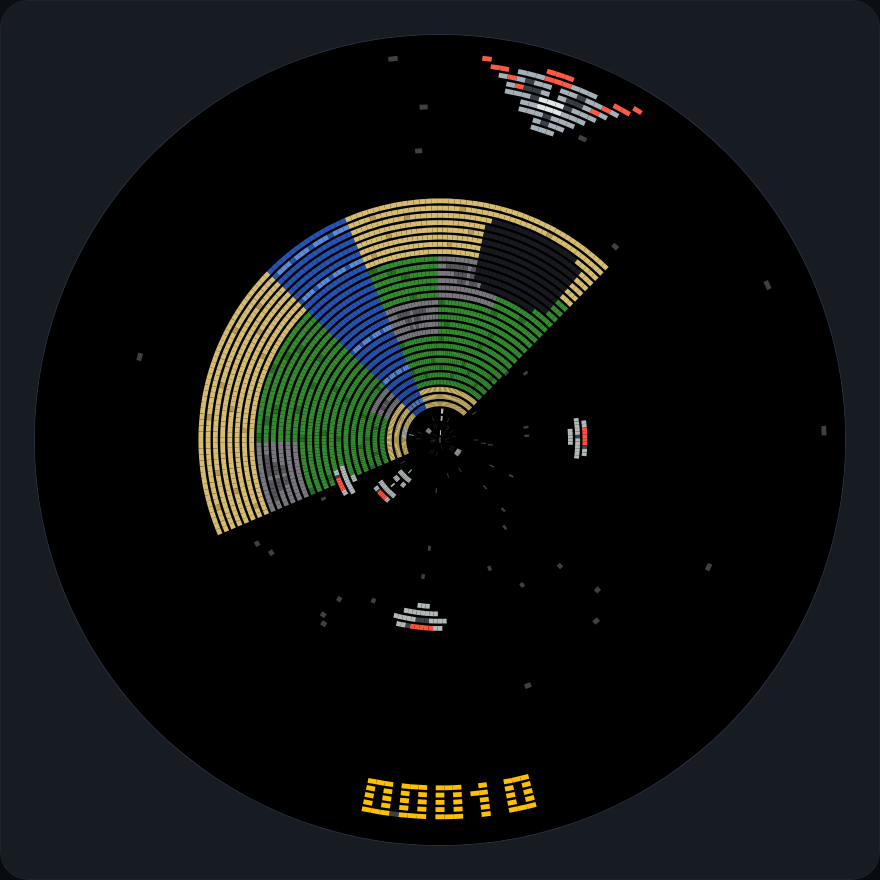
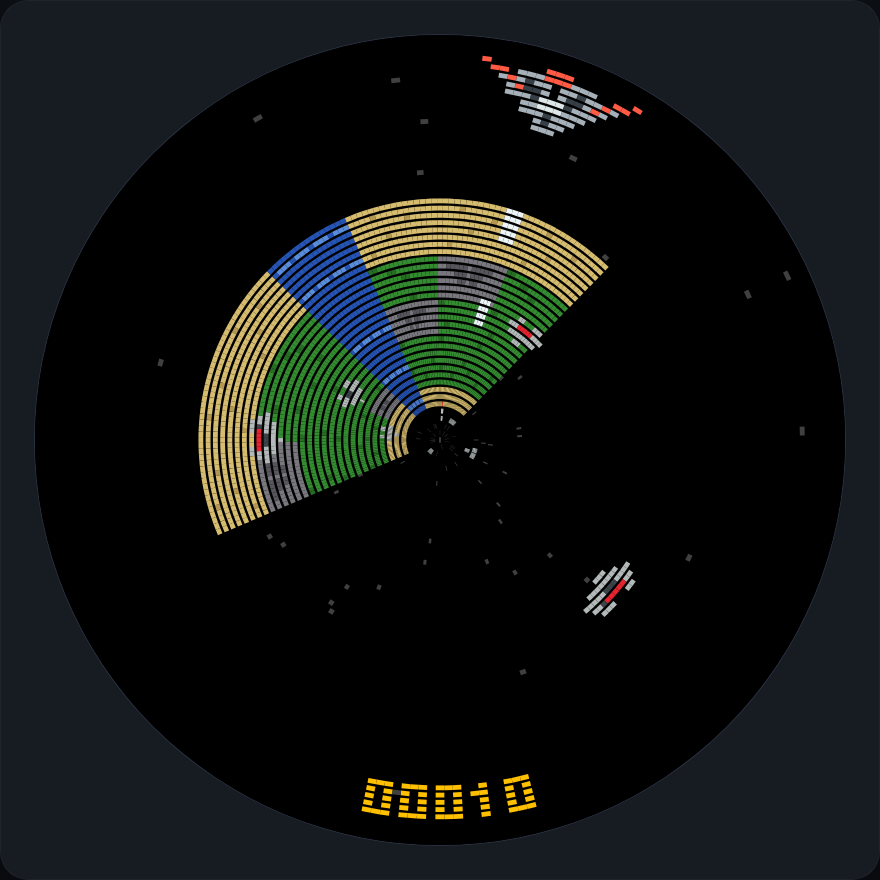
Docs: steel8x8 font in the tutorial, retake the game screenshots
Follows the tutorial game's font change: chapter text, the art list, the budget
table and the glossary name steel8x8.png, the harness takes the font from
vasura_espacial, and the title, game-over and gameplay screenshots are retaken.

Claude-Session: https://claude.ai/code/session_01Am6eVYV27DcbeE9tF3fxdW

diff --git a/docs/vs2/tutorial/tilemaps-and-text.md b/docs/vs2/tutorial/tilemaps-and-text.md
@@ -79,7 +79,7 @@ def build(self):
     hud = self.layer("hud", projection=vs2.HUD)
     self.score  = hud.label("numerals.png", columns=5, x=246, y=1)   # bottom of the disc: upright
     self.status = hud.label("tinyfont.png", columns=21, rows=3, x=-42, y=0)
-    self.title  = hud.label("rainbow437.png", columns=18, text="READY")
+    self.title  = hud.label("steel8x8.png", columns=18, text="READY")
 ```
 
 One-line labels get a `text` property; multi-line ones use
@@ -151,7 +151,7 @@ Two labels: one at the top with `flip_x` and `flip_y`, one at the bottom with no
 ### Glyphs
 
 A label shows a character by picking the {term}`glyph` frame for it. By default
-that is {term}`CP437`, where `frame = ord(ch)` — what `rainbow437.png` and the
+that is {term}`CP437`, where `frame = ord(ch)` — what `steel8x8.png` and the
 other full font strips use. A strip with only a few characters, like a row of
 digits, declares its own mapping in `__images__.yaml`, next to the strip:
 

diff --git a/docs/vs2/tutorial/scenes-and-input.md b/docs/vs2/tutorial/scenes-and-input.md
@@ -158,15 +158,15 @@ def update(self):
 ```
 
 **A title and a game-over screen.** Both are small scenes. The text is a
-{term}`label` using `rainbow437.png`, a full CP437 font, so it can write any
+{term}`label` using `steel8x8.png`, a full CP437 font, so it can write any
 letter. The helper centres a label on the bottom of the disc, where text reads
 upright, so it needs no flips:
 
 ```python
 def centred_label(layer, text, y):
     """A label for ``text``, centred on the bottom of the disc, where it reads
-    upright. rainbow437.png is a full CP437 font, 9 columns per character."""
-    label = layer.label("rainbow437.png", columns=len(text), x=0, y=y, text=text)
+    upright. steel8x8.png is a full CP437 font, 8 columns per character."""
+    label = layer.label("steel8x8.png", columns=len(text), x=0, y=y, text=text)
     label.x = -(len(text) * label.image.width) // 2
     return label
 

diff --git a/docs/vs2/tutorial/budgets.md b/docs/vs2/tutorial/budgets.md
@@ -114,7 +114,7 @@ Add up Tunnel Shooter's budget. The numbers are in `vs2.limits`:
 | Layers | 2 (`world`, `hud`) | 8 |
 | Sprites | 1 ship + 8 shots + 16 enemies + 4 explosions = 29 | 100 |
 | Tilemaps | 1 island + 1 score label = 2 | 16 |
-| Image strips | 7 (ship, shots, enemy, explosion, terrain, numerals, rainbow437) | 100 |
+| Image strips | 7 (ship, shots, enemy, explosion, terrain, numerals, steel8x8) | 100 |
 
 Everything is created in `build()`, so the whole table is checked the first time
 the scene is entered. Here is the complete game, exactly as it is in

diff --git a/docs/vs2/tutorial/first-game.md b/docs/vs2/tutorial/first-game.md
@@ -60,7 +60,7 @@ that look alike in one group.
 
 To follow along, copy the art Tunnel Shooter uses into your `images/` folder
 from `games/demos/tutorial_game/images/`: `ship.png`, `shots.png`, `enemy.png`,
-`explosion.png`, `terrain.png`, `numerals.png` and `rainbow437.png`. You only
+`explosion.png`, `terrain.png`, `numerals.png` and `steel8x8.png`. You only
 need `ship.png` for this chapter; the others appear later.
 
 The emulator recompiles changed PNGs into a ROM every time it starts, so you

diff --git a/docs/vs2/glossary.md b/docs/vs2/glossary.md
@@ -46,7 +46,7 @@ Console
 
 CP437
   The default {term}`glyph` mapping, where a character's frame is `ord(ch)`.
-  Full font strips such as `rainbow437.png` use it.
+  Full font strips such as `steel8x8.png` use it.
 
 Depth
   What Y means on a {py:data}`vs2.TUNNEL` layer: `0` at the {term}`rim`, `255`
